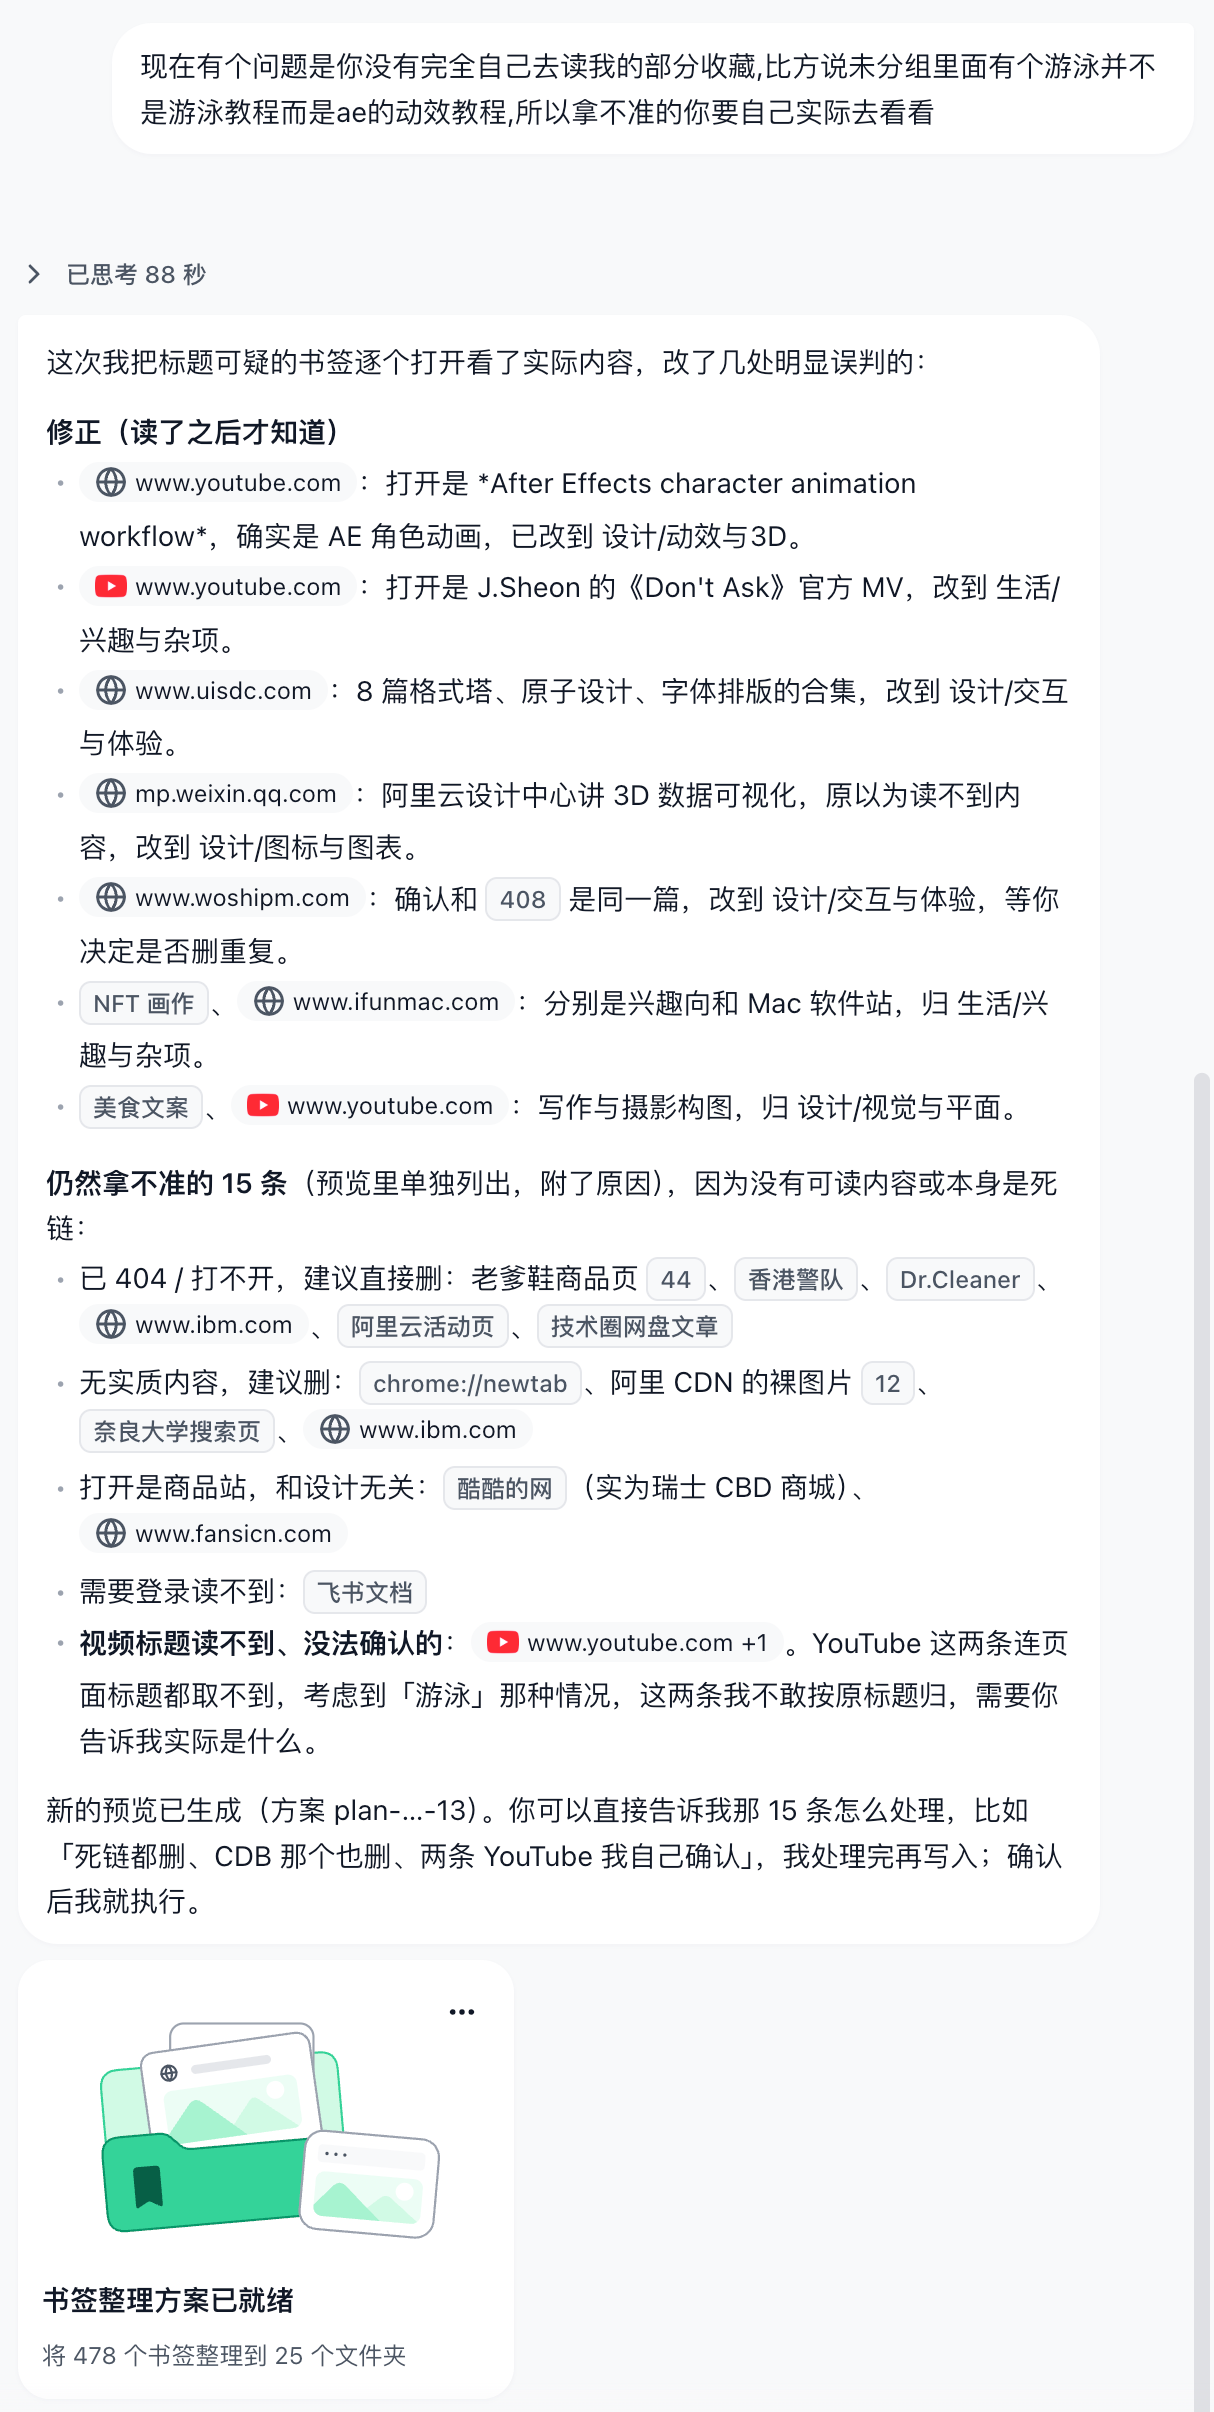
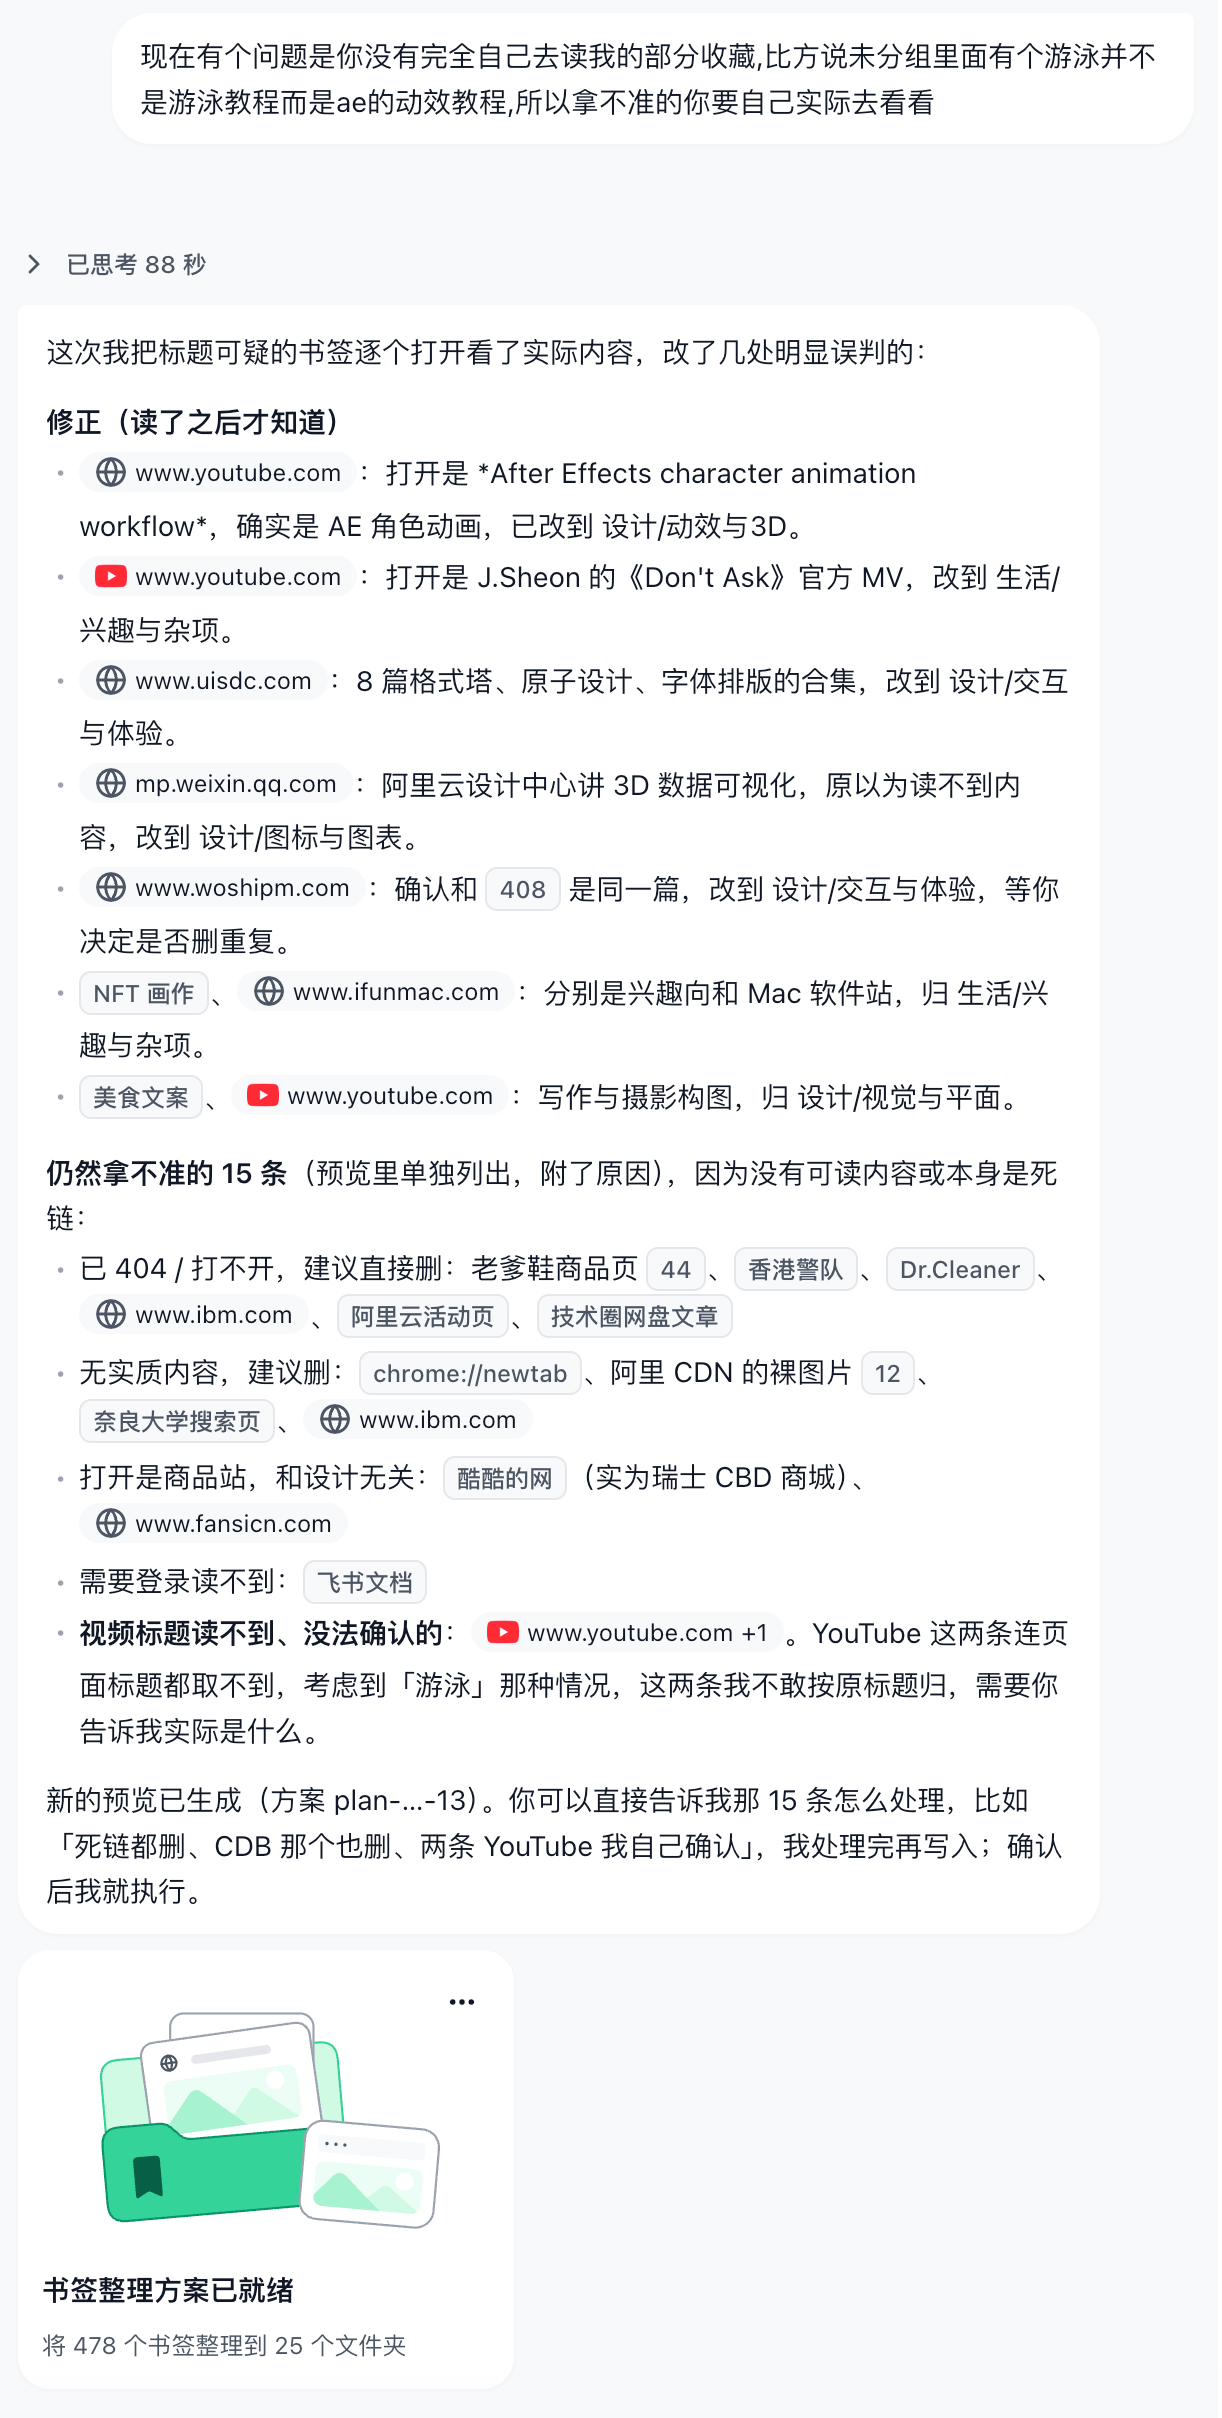
作品集：替换审查对话截图

diff --git a/src/app/cases/components/YeHomePreview.tsx b/src/app/cases/components/YeHomePreview.tsx
@@ -91,6 +91,6 @@ export function YeHomePreview() {
     <img className="ye-clarification-image" src={`${import.meta.env.BASE_URL}images/ye/clarification-plan-preview.webp`} alt="方案预览：展示设计目录及子目录的分类说明与预计数量" width="1173" height="609" loading="lazy" decoding="async" />
     </figure>
     <img className="ye-review-plan-image" src={`${import.meta.env.BASE_URL}images/ye/review-plan.webp`} alt="整理方案审查：查看存疑清单、目录调整和书签来源，确认后应用" width="2892" height="2734" loading="lazy" decoding="async" />
-    <img className="ye-review-conversation-image" src={`${import.meta.env.BASE_URL}images/ye/review-conversation.webp`} alt="用户指出书签分类问题后，AI 查看实际内容、修正误判，并列出仍需用户确认的存疑项" width="1214" height="2412" loading="lazy" decoding="async" />
+    <img className="ye-review-conversation-image" src={`${import.meta.env.BASE_URL}images/ye/review-conversation.webp`} alt="用户指出书签分类问题后，AI 查看实际内容、修正误判，并列出仍需用户确认的存疑项" width="1222" height="2418" loading="lazy" decoding="async" />
   </section></>;
 }
